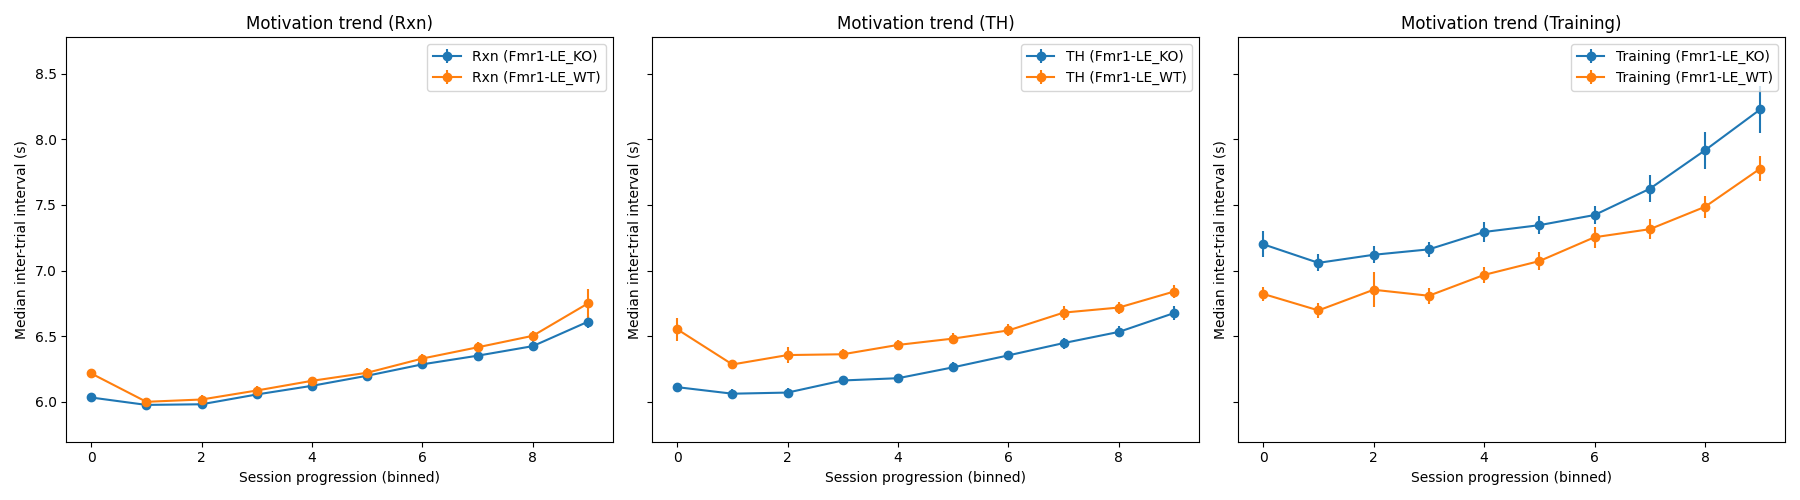
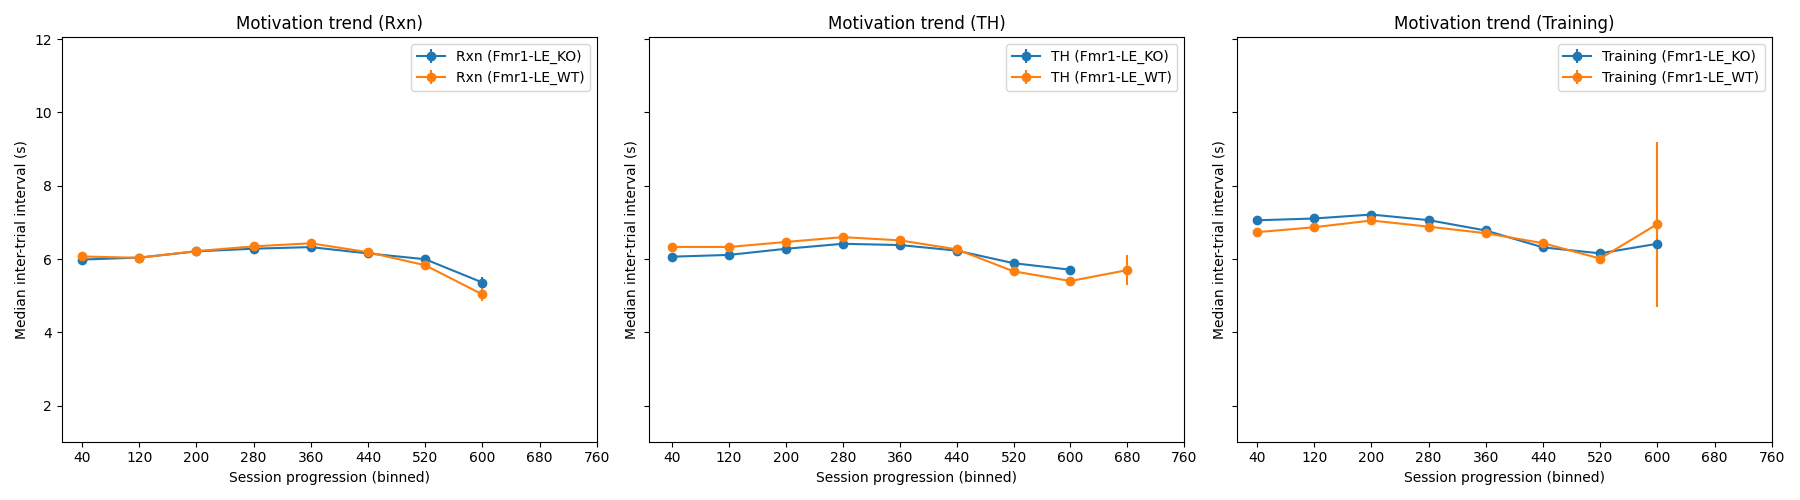
Fixed motivation graph

diff --git a/Genotype_grapher.py b/Genotype_grapher.py
@@ -14,6 +14,11 @@ def load_data(file_path, info_path):
     ### loads needed dataframes from file paths
     df = pd.read_csv(file_path)
     info_df = pd.read_csv(info_path)
+
+    info_df = info_df.loc[(info_df['task'] != 'Reset')
+                          & (info_df['task'] != 'Discrimination')
+                          & (info_df['task'] != 'Holding')]
+
     return df, info_df
 
 def file_info(info_df):
@@ -26,22 +31,73 @@ def file_info(info_df):
     file_info_df = pd.DataFrame(file_info, columns=['file_info','UUID'])
     merged_df = pd.merge(file_info_df, info_df, on="UUID", how="right")
     file_info_df = merged_df[merged_df['UUID'].isin(file_uuid_list)]
+
     return file_info_df
 
-def rxn_th_finder(df):
+def file_type_finder(df):
 
+    # finds training files based on whether or not there is a ncatch in file name
+    catch_pat = r'_\dcatch'
+
+    catch_mask = df['file_name'].astype(str).str.contains(catch_pat, regex=True)
+
+    training_uuids = df.loc[catch_mask, 'UUID']
+    training_uuids_list = training_uuids.tolist()
+
+
+    # find length of lock out time
+    lo_pat = r'_\d+s\b'
+
+    lo_matches = df['file_name'].apply(
+    lambda x: re.search(lo_pat, str(x)).group(0) if re.search(lo_pat, str(x)) else None)
+
+    lo_mask = lo_matches.notna()
+
+    lo_df = pd.DataFrame({
+        'UUID': df.loc[lo_mask, 'UUID'],
+        'lo_time': lo_matches[lo_mask]
+    })
+    lo_df['lo_time'] = lo_df['lo_time'].str.extract(r'\b_(\d+)s').astype('Int64')
+
+    lo_dict = dict(zip(lo_df['UUID'], lo_df['lo_time']))
+    df['lo_time'] = df['UUID'].map(lo_dict).fillna(0).astype(int)
+
+    # finds the dB interval for each session
     pattern = r'\b\d{2}-\d{2}dB\b'
 
     matches = df['file_info'].apply(
-        lambda tup: next((x for x in tup if re.search(pattern, str(x))), None)
-    )
+    lambda tup: next(
+        (re.search(pattern, str(x)).group(0) for x in tup if re.search(pattern, str(x))), None))
 
     mask = matches.notna()
-    df_filtered = pd.DataFrame({'file_info': matches[mask]}, index=df[mask].index)
 
-    freq_range_set = sorted(set(matches[mask]))
+    dB_df = pd.DataFrame({
+        'UUID': df.loc[mask, 'UUID'],
+        'dB_range': matches[mask]
+    })
 
-    return df_filtered, freq_range_set
+    dB_df['low_dB'] = dB_df['dB_range'].str.extract(r'(\d{2})').astype(int)
+
+    rxn_uuids = dB_df.loc[dB_df['low_dB'] > 20, 'UUID'].tolist()
+    th_uuids = dB_df.loc[dB_df['low_dB'] <= 20, 'UUID'].tolist()
+
+    df['new_task'] = df['UUID'].apply(lambda x: 'Training' if x in training_uuids_list else ('TH' if x in th_uuids else ('Rxn' if x in rxn_uuids else 'training_bad')))
+
+    dB_range_set = sorted(set(dB_df['dB_range']))
+
+    cldftrn = df.loc[(df['new_task'] == 'Training')]
+    cldfrxn = df.loc[(df['new_task'] == 'Rxn')]
+    cldfth = df.loc[(df['new_task'] == 'TH')]
+
+    trnflset = set(cldftrn['UUID'])
+    cldfrxnset = set(cldfrxn['UUID'])
+    cldfthset = set(cldfth['UUID'])
+
+    num_training = len(trnflset)
+    num_rxn = len(cldfrxnset)
+    num_th = len(cldfthset)
+
+    return df, dB_df, lo_df, dB_range_set, num_training, num_rxn, num_th
 
 def uuid_comparer(df, info_df):
     ### compares uuid (session ID) between dataframes and makes set of matched uuids
@@ -49,6 +105,7 @@ def uuid_comparer(df, info_df):
     data_UUIDs_set = set(df['UUID'])
     shared_UUIDs = valid_UUIDs_set.intersection(data_UUIDs_set)
     unshared_UUIDs = valid_UUIDs_set.symmetric_difference(data_UUIDs_set)
+
     return shared_UUIDs
 
 def round(x):
@@ -63,7 +120,20 @@ def data_cleaner(df, info_df, shared_UUIDs, wanted_columns):
     clean_df = merged_df[merged_df['UUID'].isin(shared_UUIDs)]
     clean_df = clean_df[clean_df['complete_block_number'] > 1]
     incomplete_blocks_df = clean_df[clean_df['complete_block_number'] == 1]
-    return clean_df
+
+    cldftrn = clean_df.loc[(clean_df['task'] == 'Training')]
+    cldfrxn = clean_df.loc[(clean_df['task'] == 'Rxn')]
+    cldfth = clean_df.loc[(clean_df['task'] == 'TH')]
+
+    trnflset = set(cldftrn['UUID'])
+    cldfrxnset = set(cldfrxn['UUID'])
+    cldfthset = set(cldfth['UUID'])
+
+    num_training = len(trnflset)
+    num_rxn = len(cldfrxnset)
+    num_th = len(cldfthset)
+
+    return clean_df, num_training, num_rxn, num_th
     
 def delay_classifier(df):
     ### finds all delay intervals and each session's interval, also lists out important data set information
@@ -91,7 +161,7 @@ def delay_classifier(df):
 
 def file_diff_graph(df, tasks, analysis_types, delay_interval):
 
-    df = df[['task','analysis_type','Attempts_to_complete','rat_ID','Delay (s)',"Max Delay (s)","Min Delay (s)"]]
+    df = df[['Genotype','task','analysis_type','Attempts_to_complete','rat_ID','Delay (s)',"Max Delay (s)","Min Delay (s)"]]
 
     df['one_attempt'] = df['Attempts_to_complete'] == 1
     df['more_than_one_attempt'] = df['Attempts_to_complete'] > 1
@@ -103,33 +173,33 @@ def file_diff_graph(df, tasks, analysis_types, delay_interval):
             & (df['task'].isin(tasks))
             & (df['analysis_type'].isin(analysis_types))
             ]
-    groups = filtered.groupby(['analysis_type', 'task']).agg(
+    groups = filtered.groupby(['Genotype', 'task']).agg(
     trials_one_attempt=('one_attempt', 'sum'),
     trials_more_than_one_attempt=('more_than_one_attempt', 'sum'),
     total_trials=('Attempts_to_complete', 'count'))
 
     groups['prop_one_attempt'] = groups['trials_one_attempt'] / groups['total_trials']
     groups['prop_more_than_one'] = groups['trials_more_than_one_attempt'] / groups['total_trials']
-    grouped_rats_df = groups.sort_values(by=['analysis_type', 'task']).reset_index()
+    grouped_rats_df = groups.sort_values(by=['Genotype', 'task']).reset_index()
     
-    prop_one_attempt_data = grouped_rats_df[['prop_one_attempt','analysis_type','task']]
-    data = prop_one_attempt_data.sort_values(by=['task','analysis_type']).reset_index()
+    prop_one_attempt_data = grouped_rats_df[['prop_one_attempt','Genotype','task']]
+    data = prop_one_attempt_data.sort_values(by=['task','Genotype']).reset_index()
 
     plt.figure(figsize=(8, 6))
     sns.barplot(
         x='task',
         y='prop_one_attempt',
-        hue='analysis_type',
+        hue='Genotype',
         data=data,
         palette='Set2',
         edgecolor='black',
         errorbar='se'
     )
 
-    plt.title('Proportion of 1-Attempt Trials by Analysis Type and Task')
+    plt.title('Proportion of 1-Attempt Trials by Genotype and Task')
     plt.ylabel('Proportion of Trials Completed in One Attempt')
     plt.xlabel('Task')
-    plt.legend(title='Analysis Type', loc='upper left')
+    plt.legend(title='Genotype', loc='upper left')
     
     plt.tight_layout()
     # plt.savefig(f'C:/Users/ckill/OneDrive/Documents/GitHub/o_behavior_data_analysis_fall2025/figures/fmr1_le_file_diff_plots.png', dpi=300, bbox_inches='tight')
@@ -261,15 +331,15 @@ def d_prime_graph(df, tasks, analysis_types):
 
         subset = data[data["task"] == task]
 
-        sns.boxplot(x='Genotype', y='d_prime', data=subset, palette='Set2', width=0.5, ax=ax)
-        sns.swarmplot(x='Genotype', y='d_prime', data=subset, color='black', size=1, ax=ax)
+        sns.boxplot(x='Genotype', y='hit_rate', data=subset, palette='Set2', width=0.5, ax=ax)
+        sns.swarmplot(x='Genotype', y='hit_rate', data=subset, color='black', size=1, ax=ax)
 
-        ax.set_title(f"{task} d' Differences Across Genotype")
+        ax.set_title(f"{task} Hit Rate Differences Across Genotype")
         ax.set_xlabel('Genotype')
-        ax.set_ylabel("d'")
+        ax.set_ylabel("Hit Rate")
 
-    plt.tight_layout(rect=[0, 0, 1, 0.95])  # leave space for legend
-    # plt.savefig(f'C:/Users/ckill/OneDrive/Documents/GitHub/o_behavior_data_analysis_fall2025/figures/twox_d_prime_plots.png')
+    plt.tight_layout(rect=[0, 0, 1, 0.95])
+    # plt.savefig(f'C:/Users/ckill/OneDrive/Documents/GitHub/o_behavior_data_analysis_fall2025/figures/fmr1_le_hit_rate_plots.png')
     plt.show()
 
     return data, tukey
@@ -324,48 +394,59 @@ def single_prop(df, delay_interval, tasks, analysis_types):
 
     return data, tukey
 
-def x_session_motivation_graph(df,delay_interval,tasks):
-
-    df = df[['Time_since_file_start_(s)','rat_ID','Genotype','UUID','task','analysis_type','Min Delay (s)','Max Delay (s)']]
-
+def x_session_motivation_graph(df,delay_interval,tasks,lo_df):
+    n_trials = 800
+    df = df[['task','Time_since_file_start_(s)','Response','rat_ID','Genotype','UUID','analysis_type','Min Delay (s)','Max Delay (s)','new_task']]
+    
     filtered = df.loc[
             (df['Max Delay (s)'] == delay_interval[0])
             & (df['Min Delay (s)'] == delay_interval[1])
             & (df['task'].isin(tasks))
             ]
 
+    lo_dict = dict(zip(lo_df['UUID'], lo_df['lo_time']))
+    filtered['lo_time'] = filtered['UUID'].map(lo_dict).fillna(0)   
+
     rat_data_list = []
 
     for rat in filtered['rat_ID'].unique():
         rat_df = filtered.loc[filtered['rat_ID'] == rat]
         genotype = rat_df['Genotype'].iloc[0]
-        tasks_for_rat = rat_df['task'].unique()
 
-        for task in tasks_for_rat:
+        for task in rat_df['task'].unique():
             task_df = rat_df[rat_df['task'] == task]
             
             for uuid in task_df['UUID'].unique():
                 session_df = rat_df.loc[rat_df['UUID'] == uuid].sort_values('Time_since_file_start_(s)')
 
-                itis = np.diff(session_df['Time_since_file_start_(s)'].values)
-                n_trials = len(itis)
-                if len(itis) == 0:
-                    continue
-                relative_trial_pos = np.linspace(0, 1, n_trials, endpoint=False)
-
-                for iti, pos in zip(itis, relative_trial_pos):
+                for trial_num, row in enumerate(session_df.itertuples(), start=1):
                     rat_data_list.append({
                         'rat_ID': rat,
                         'task': task,
                         'UUID': uuid,
-                        'ITI': iti,
-                        'relative_trial_pos': pos
-                        ,'Genotype': genotype
+                        'trial_number': trial_num,
+                        'Time_since_file_start_(s)': row._2,
+                        'Response': row.Response,
+                        'Genotype': genotype,
+                        'lo_time': row.lo_time
                 })
 
     iti_df = pd.DataFrame(rat_data_list)
-    print(iti_df)
-    iti_df["bin"] = pd.cut(iti_df["relative_trial_pos"], bins=10, labels=False)
+
+    iti_df['ITI'] = iti_df.groupby('UUID')['Time_since_file_start_(s)'].diff()
+
+    iti_df = iti_df.dropna(subset=['ITI'])
+
+    iti_df['response_prev'] = iti_df.groupby('UUID')['Response'].shift(1)
+
+    specific_response = 'FA'
+    iti_df['ITI_adjusted'] = iti_df['ITI'] - iti_df['lo_time'].where(iti_df['response_prev'] == specific_response, 0)
+
+    n_bins = 10
+    bin_edges = np.linspace(0, n_trials, n_bins + 1)
+    bin_labels = (bin_edges[:-1] + bin_edges[1:]) / 2
+    iti_df["bin"] = pd.cut(iti_df["trial_number"], bins=bin_edges, labels=False)
+
     iti_by_bin = iti_df.groupby(["rat_ID", 'task', "UUID", "bin",'Genotype'])["ITI"].median().reset_index()
 
     task = iti_by_bin["task"].unique()
@@ -382,7 +463,11 @@ def x_session_motivation_graph(df,delay_interval,tasks):
 
             ax.errorbar(mean_iti.index, mean_iti, yerr=sem_iti, fmt='-o', label=f"{task} ({genotype})")
 
-        y_min, y_max = mean_iti.min() - 1, mean_iti.max() + 1
+        ax.set_xticks(range(n_bins))
+        ax.set_xticklabels([int(x) for x in bin_labels])
+        ax.set_xlabel("Approx. absolute trial number")
+
+        y_min, y_max = mean_iti.min() - 5, mean_iti.max() + 5
         ax.set_ylim(y_min, y_max)
         
         ax.set_title(f"Motivation trend ({task})")
@@ -391,7 +476,7 @@ def x_session_motivation_graph(df,delay_interval,tasks):
         ax.legend()
 
     plt.tight_layout()
-    plt.savefig('C:/Users/ckill/OneDrive/Documents/GitHub/o_behavior_data_analysis_fall2025/figures/fmr1_le_xsession_motiv_plots.png')
+    # plt.savefig('C:/Users/ckill/OneDrive/Documents/GitHub/o_behavior_data_analysis_fall2025/figures/fmr1_le_xsession_motiv_plots.png')
     plt.show()
     
     return iti_df
@@ -402,7 +487,7 @@ def main():
 
     file_path="C:/Users/ckill/Documents/neuroscience_sterf/AuerbachLab/Fmr1-LE_data_exported_trials_20251015.csv"
     file_info_path="C:/Users/ckill/Documents/neuroscience_sterf/AuerbachLab/Fmr1-LE_data_exported_20251015.csv"
-    wanted_columns_for_merge = ['date','UUID','weight','rat_ID','DOB','file_name','Genotype','task','analysis_type']
+    wanted_columns_for_merge = ['new_task','date','UUID','rat_ID','DOB','file_name','Genotype','analysis_type','task','lo_time']
     wanted_delay_interval = (4.0,1.0)
     training_tasks = ['Training']
     tasks = ['Rxn','TH']
@@ -414,10 +499,10 @@ def main():
 ### data cleaning and organization
     df, info_df = load_data(file_path, file_info_path)
     info_df = file_info(info_df)
+    info_df, dB_df, lo_df, dB_range_set, tst_num_trn, tst_num_rxn, tst_num_th = file_type_finder(info_df)
     shared_UUIDs = uuid_comparer(df, info_df)
-    clean_df = data_cleaner(df, info_df, shared_UUIDs, wanted_columns_for_merge)
+    clean_df, num_trn, num_rxn, num_th = data_cleaner(df, info_df, shared_UUIDs, wanted_columns_for_merge)
     delay_interval_list, delay_df, rat_ids, dob_list, gt_list = delay_classifier(clean_df)
-    # freq_range_set = rxn_th_finder(info_df)
 
 ### data analysis graphs
 
@@ -426,7 +511,11 @@ def main():
     # training_single_prop_data, training_prop_tukey = single_prop(delay_df,wanted_delay_interval,training_tasks,analysis_types)
     # baseline_single_prop_data, baseline_prop_tukey = single_prop(delay_df,wanted_delay_interval,tasks,analysis_types)
 
-    # file_diff_data, file_diff_tukey = file_diff_graph(delay_df, twox_task, twox_analysis_type, wanted_delay_interval)
+    ####### look for difference in variance between sessions for each rat
+
+    ####### categorial for 2 attempts 5 attempts 10 attempts rather than just 1 or more than one
+
+    # file_diff_data, file_diff_tukey = file_diff_graph(delay_df, file_diff_tasks, analysis_types, wanted_delay_interval)
 
     # weight_diff_data = weight_diff_graph
 
@@ -436,22 +525,51 @@ def main():
     # trial_totals_data = trial_totals_graph(delay_df,twox_task,twox_analysis_type)
     # training_time_props_data, training_props_tukey = training_prop_graph(delay_df)
     # *
+    
+    ####### exclude rats with a different trial number
+    
+    #^ double check that training files are actually training files by file name 0catch 3catch
+    #^ doesn't work for fmr1_le csv since training files arent designated by 0/3catch should work for twox
 
 ## other 
 
-    # d_prime_data, d_prime_tukey = d_prime_graph(delay_df,twox_task,twox_analysis_type)
-    motivation_data = x_session_motivation_graph(delay_df,wanted_delay_interval,file_diff_tasks)
+    # d_prime_data, d_prime_tukey = d_prime_graph(delay_df,file_diff_tasks,analysis_types)
+
+    ### make graph for fa rate across genotype and task
+
+    # weight loss and weight gain
+
+    # motivation_data = x_session_motivation_graph(delay_df,wanted_delay_interval,file_diff_tasks,lo_df)
+
+    # show all sessions for each genotype and then do sognificance test for uniformity?
+    # compare average height of each genotypes' graphs
+    
+    #^ need to control for false alarm time out if previous was FA exlude data
+
+    ####### difference between hits, misses, and FA for attempt number
+
+    ####### intertrial interval and fa rate
+
+    
+    ### FGX = red tsc = blue 2cross = purple wt = black
 
 ### program testing
     print(f'''
 Data using Tones and BBN with all different durations
 delay intervals: {delay_interval_list}
 DOBs: {dob_list}
+dB ranges: {dB_range_set}
 Genotypes: {gt_list}
 total rats in df: {len(rat_ids)}
 shared UUIDs: {len(shared_UUIDs)}
 number of trials: {len(clean_df)}
-data: {training_props_tukey}
+number of training sessions: {num_trn}
+number of rxn sessions: {num_rxn}
+number of th sessions: {num_th}
+number of test training sessions: {tst_num_trn}
+number of test rxn sessions: {tst_num_rxn}
+number of test th sessions: {tst_num_th}
+data: {motivation_data}
 ''')
     
 if __name__ == "__main__":
